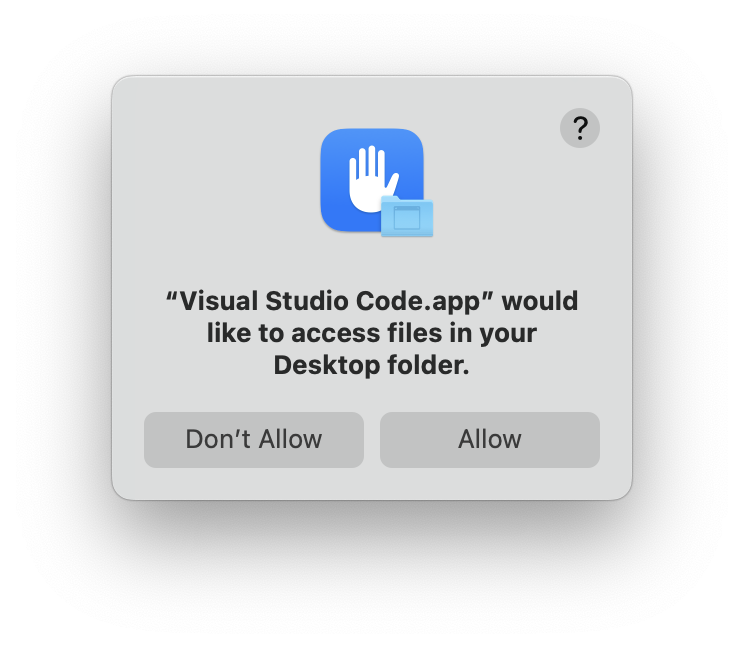
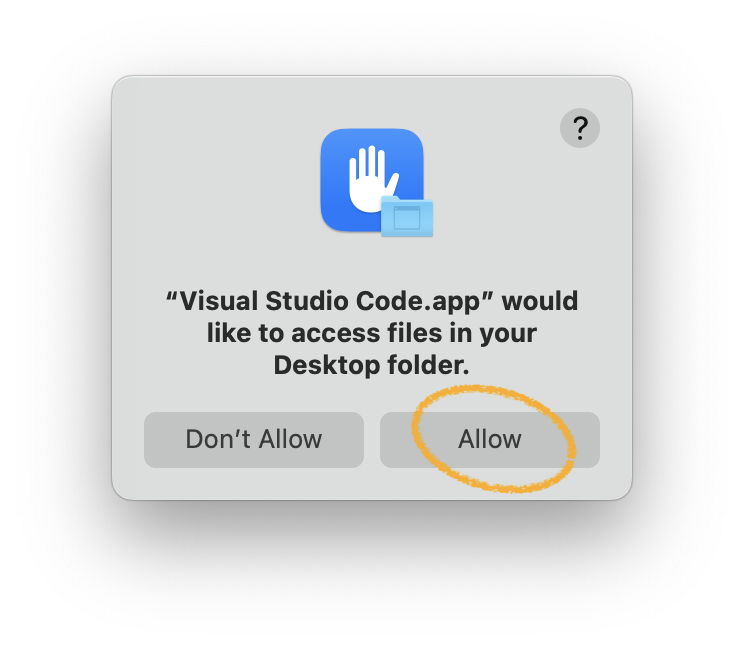
Fix typos in first lesson, add highlighting to screenshots

Changed region(s): [[0.5255, 0.5864, 0.711, 0.7099], [0.5874, 0.7099, 0.7419, 0.7716], [0.711, 0.6173, 0.7728, 0.7407]]

diff --git a/src/app/starter/01-setup/page.tsx b/src/app/starter/01-setup/page.tsx
@@ -19,8 +19,8 @@ export default function Page() {
       <h1>Welcome!</h1>
       <p>
         Before the course commences, we need to setup some applications
-        on your computer to get you started.
-        In this lesson, we will setup
+        on your computer to get you started. After that's done, we'll create
+        your first website together!
       </p>
       <h2 className="mb-4">Download all the prerequisites</h2>
       <ol className="list list-decimal ml-8 space-y-4">
@@ -114,7 +114,7 @@ export default function Page() {
       </p>
       <Image src={pagePreview} alt="Screenshot: page preview" className="mb-6" />
       <p>
-        Congratulations. While this isn't an impressive website <em>yet</em>, we're only
+        Congratulations. While this isn't the most impressive website <em>yet</em>, we're only
         getting started today.
       </p>
       <h2>Helping others</h2>
